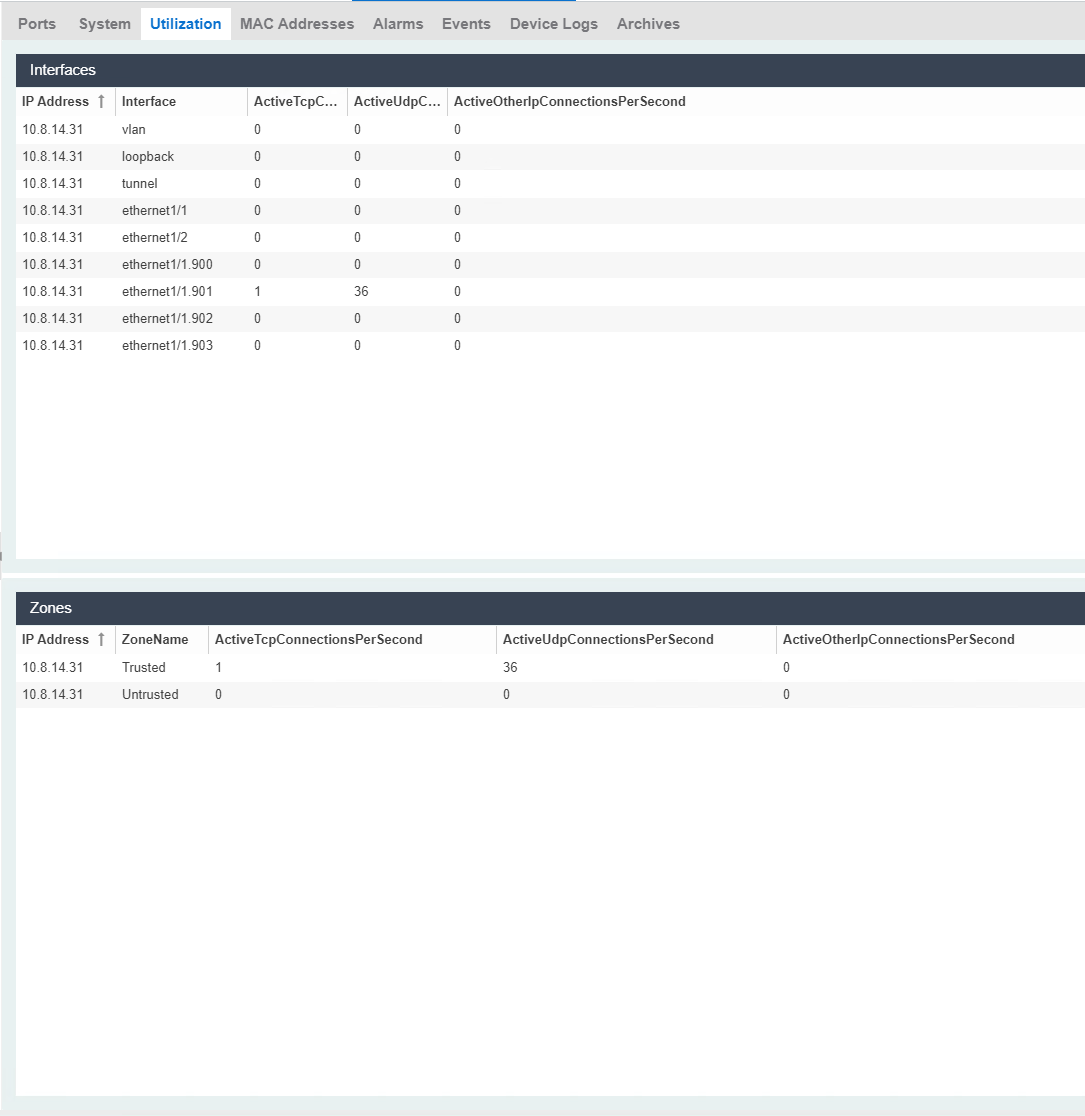
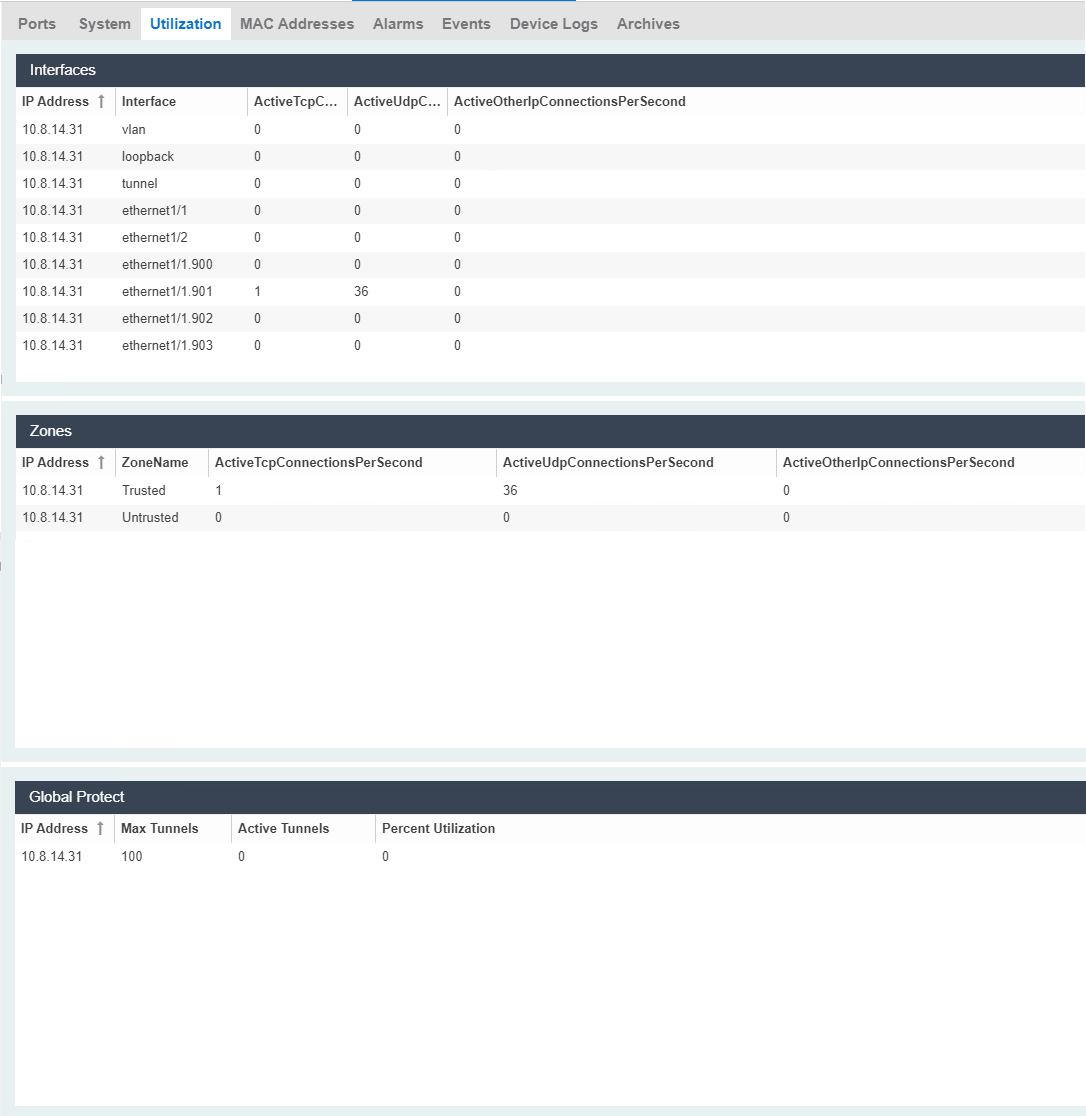
Added new content

diff --git a/FlexView/Palo_Alto/README.md b/FlexView/Palo_Alto/README.md
@@ -6,41 +6,48 @@ Community Driven repository
 ## FlexViews
 * [What versions, what definitions, how old?](tpl/PaloAltoSystem.tpl?raw=true)
 * [Entity information](tpl/PaloAltoSystemEntity.tpl?raw=true)
-* [Software Versions](tpl/PaloAltoSystemSoftware.tpl)
+* [Software Versions](tpl/PaloAltoSystemSoftware.tpl?raw=true)
 * [How are interfaces utilized?](tpl/PaloAltoInterfaces.tpl?raw=true)
 * [How are zones utilized?](tpl/PaloAltoZones.tpl?raw=true)
+* [What is the utilization of Global Protect?](tpl/PaloAltoGlobalProtect.tpl?raw=true)
 
 ## Comments & Columns
 
 ##### What versions, what definitions, how old?
-Tested with PAN version 8.0, MIBs are necesary for Extreme Management Center 8.1
+Tested with PAN version 8.0 and 9.1.2, MIBs are necesary for Extreme Management Center 8.1
 
 panSysSwVersion, panSysHwVersion, panSysSerialNumber, panSysVpnClientVersion, panSysAppVersion, panSysAppReleaseDate, panSysAvVersion, panSysAvReleaseDate, panSysThreatVersion, panSysThreatReleaseDate, panSysUrlFilteringVersion, panSysUrlFilteringDatabase, panSysWildfireVersion, panSysWfReleaseDate
 
 ##### Entity information
-Tested with PAN version 8.0, MIBs are necesary for Extreme Management Center 8.1
+Tested with PAN version 8.0 and 9.1.2, MIBs are necesary for Extreme Management Center 8.1
 
 panSysSwVersion, panSysHwVersion, panSysSerialNumber
 
 ##### Software Versions
-Tested with PAN version 8.0, MIBs are necesary for Extreme Management Center 8.1
+Tested with PAN version 8.0 and 9.1.2, MIBs are necesary for Extreme Management Center 8.1
 
 panSysVpnClientVersion, panSysAppVersion, panSysAppReleaseDate, panSysAvVersion, panSysAvReleaseDate, panSysThreatVersion, panSysThreatReleaseDate, panSysUrlFilteringVersion, panSysUrlFilteringDatabase, panSysWildfireVersion, panSysWfReleaseDate
 
 ##### How are interfaces utilized?
-Tested with PAN version 8.0, MIBs are necesary for Extreme Management Center 8.1
+Tested with PAN version 8.0 and 9.1.2, MIBs are necesary for Extreme Management Center 8.1
 
 panZoneName, panZoneActiveTcpCps, panZoneActiveUdpCps, panZoneActiveOtherIpCps
 
 ##### How are zones utilized?
-Tested with PAN version 8.0, MIBs are necesary for Extreme Management Center 8.1
+Tested with PAN version 8.0 and 9.1.2, MIBs are necesary for Extreme Management Center 8.1
 
 ifDescr, panIfActiveTcpCps, panIfActiveUdpCps, panIfActiveOtherIpCps
+
+##### What is the utilization of Global Protect?
+Tested with PAN version 8.0 and 9.1.2, MIBs are necesary for Extreme Management Center 8.1
+
+Max Tunnels, Active Tunnels, Percent Utilization
 
 ## Examples
 * [What versions, what definitions, how old?](sample/PaloAltoSystem.png)
 * [How are interfaces utilized?](sample/PaloAltoInterfaces.png)
 * [How are zones utilized?](sample/PaloAltoZones.png)
+* [What is the utilization of Global Protect?](sample/PaloAltoGlobalProtect.png)
 
 ## MIBs
 * [What directory to put MIBs to?](https://gtacknowledge.extremenetworks.com/articles/How_To/Netsight-Importing-a-MIB-into-Netsight)

diff --git a/DeviceView/PaloAlto/README.md b/DeviceView/PaloAlto/README.md
@@ -14,7 +14,7 @@ Product Family needs to be configured as Palo Alto
 | DeviceView   | GitHub FlexView   | Example   |
 | ------------ |:----------:| --------- |
 |[System](xml/DeviceViewPaloAltoSystem.xml?raw=true)|PaloAltoSystemEntity, PaloAltoSystemSoftware|[png](sample/DeviceViewPaloAltoSystem.PNG?raw=true)|
-|[Utilization](xml/DeviceViewPaloAltoUtilization.xml?raw=true)|PaloAltoInterfaces, PaloAltoZones|[png](sample/DeviceViewPaloAltoUtilization.PNG?raw=true)|
+|[Utilization](xml/DeviceViewPaloAltoUtilization.xml?raw=true)|PaloAltoInterfaces, PaloAltoZones, PaloAltoGlobalProtect|[png](sample/DeviceViewPaloAltoUtilization.PNG?raw=true)|
 
 
 ## Troubleshooting = most common issues

diff --git a/DeviceView/README.md b/DeviceView/README.md
@@ -15,6 +15,7 @@ Starting with Extreme Management Center version 8.0.4 you may import/modify the 
 * [HPE devices](Aruba-HP/README.md)
 * [InfoBlox](InfoBlox/README.md)
 * [Juniper switches](Juniper/README.md)
+* [PaloAlto Firewalls](PaloAlto/README.md)
 * [SonicWall Firewalls](SonicWall/README.md)
 * [VMware ESXi](VMware/README.md)
 * [Multi vendor](MultiVendor/README.md)
